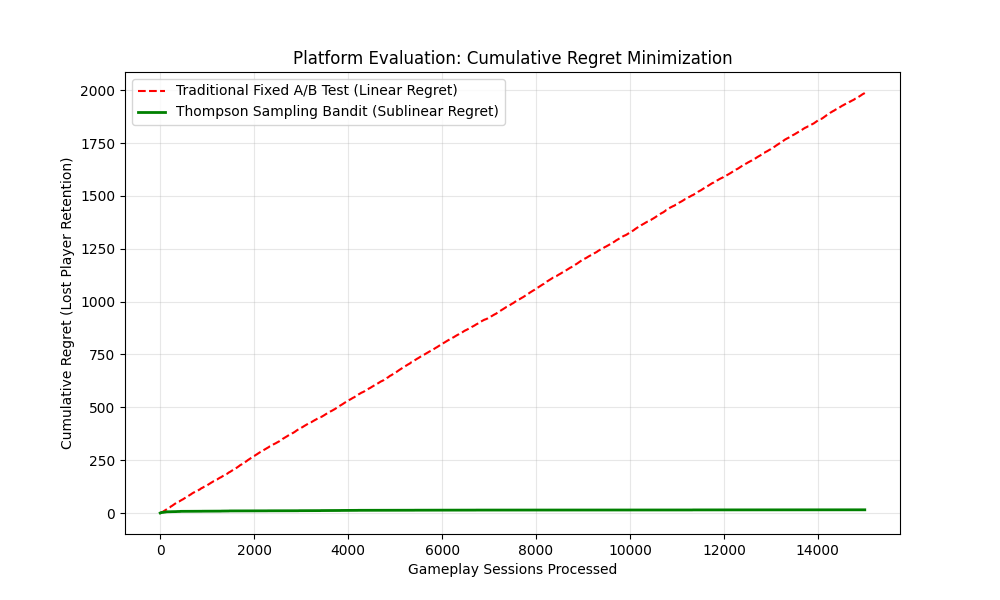
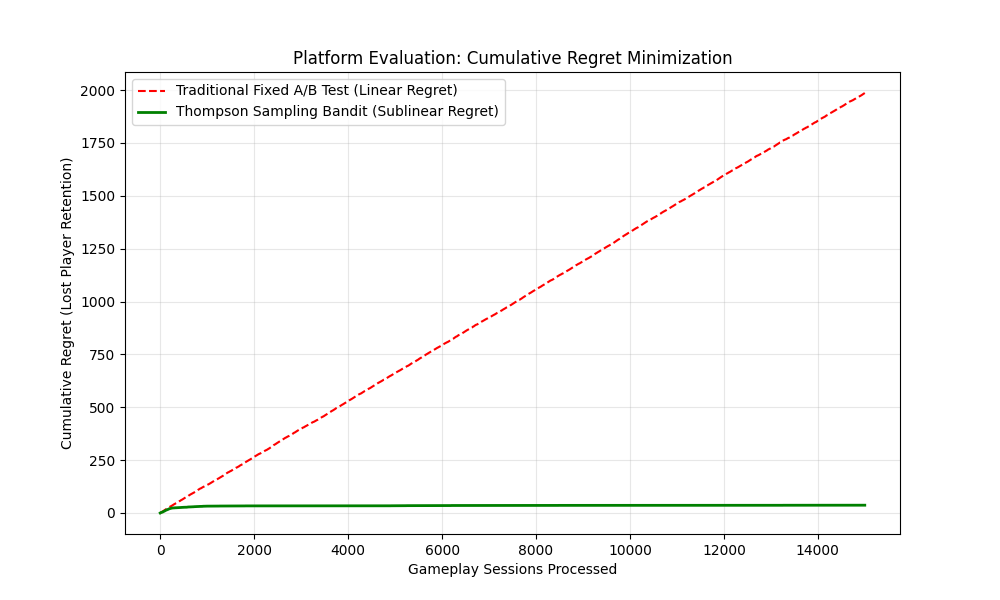
Cleaned up

diff --git a/eval.py b/eval.py
@@ -58,9 +58,12 @@ def run_evaluation(total_sessions: int = 10000):
     print(f"Traditional A/B Test Total Retention: {ab_retained_count} sessions")
     print(f"Multi-Armed Bandit Total Retention:    {bandit_retained_count} sessions")
     print(f"Additional Retained Sessions via MAB:   {bandit_retained_count - ab_retained_count}")
+    print("\n=== REGRET METRICS ===")
+    print(f"Cumulative A/B Test Regret: {cumulative_ab_regret}")
+    print(f"Cumulative Bandit Regret: {cumulative_bandit_regret}")
     print("========================================\n")
     #print(f"bandit_regret_over_time: {bandit_regret_over_time}")
-    print(f"cumulative_bandit_regret: {cumulative_bandit_regret}")
+    
     # --- 4. PLOT CUMULATIVE REGRET (SCIENTIFIC PROOF) ---
     plt.figure(figsize=(10, 6))
     plt.plot(ab_regret_over_time, label="Traditional Fixed A/B Test (Linear Regret)", color='red', linestyle='--')

diff --git a/bandit_engine.py b/bandit_engine.py
@@ -1,5 +1,4 @@
 import numpy as np
-from scipy.stats import beta
 
 """
 How the Math Works
@@ -32,7 +31,7 @@ class ThompsonSamplingBandit:
             self.alphas[queue_index] += 1
         else:
             self.betas[queue_index] += 1
-            
+
     def get_expected_probabilities(self) -> np.ndarray:
         """
         Returns the current expected conversion rate for each queue.